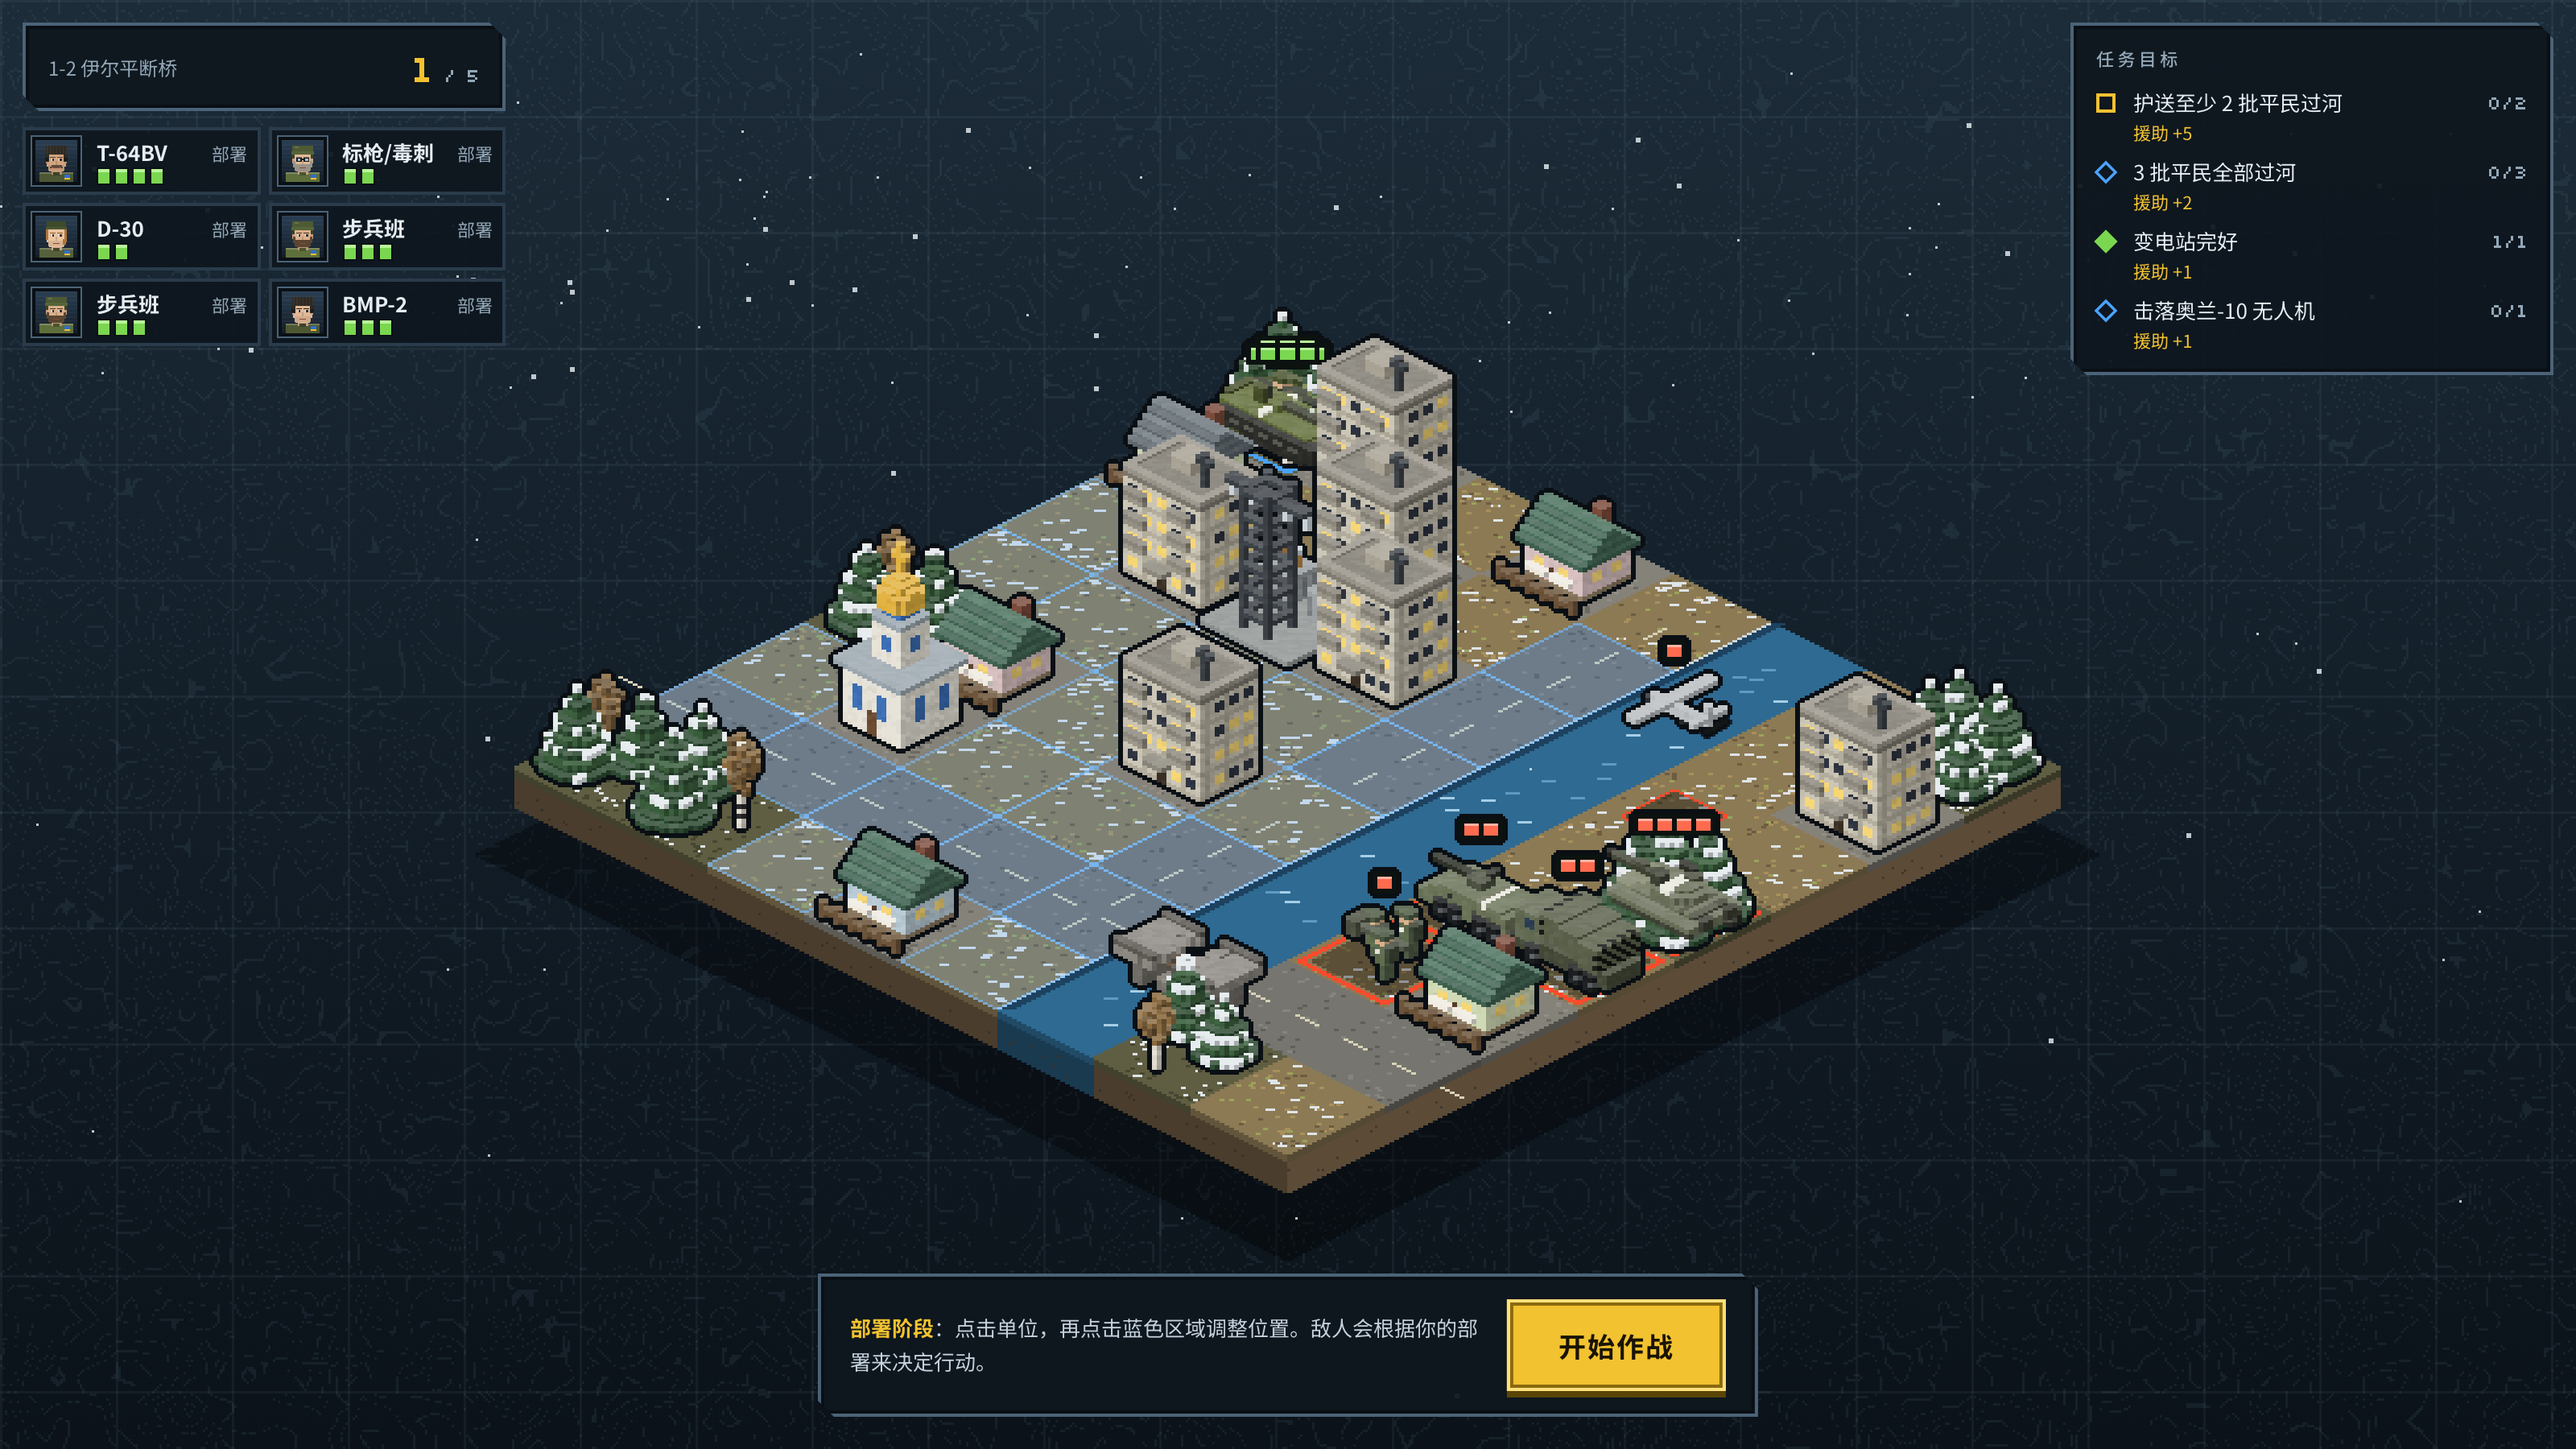
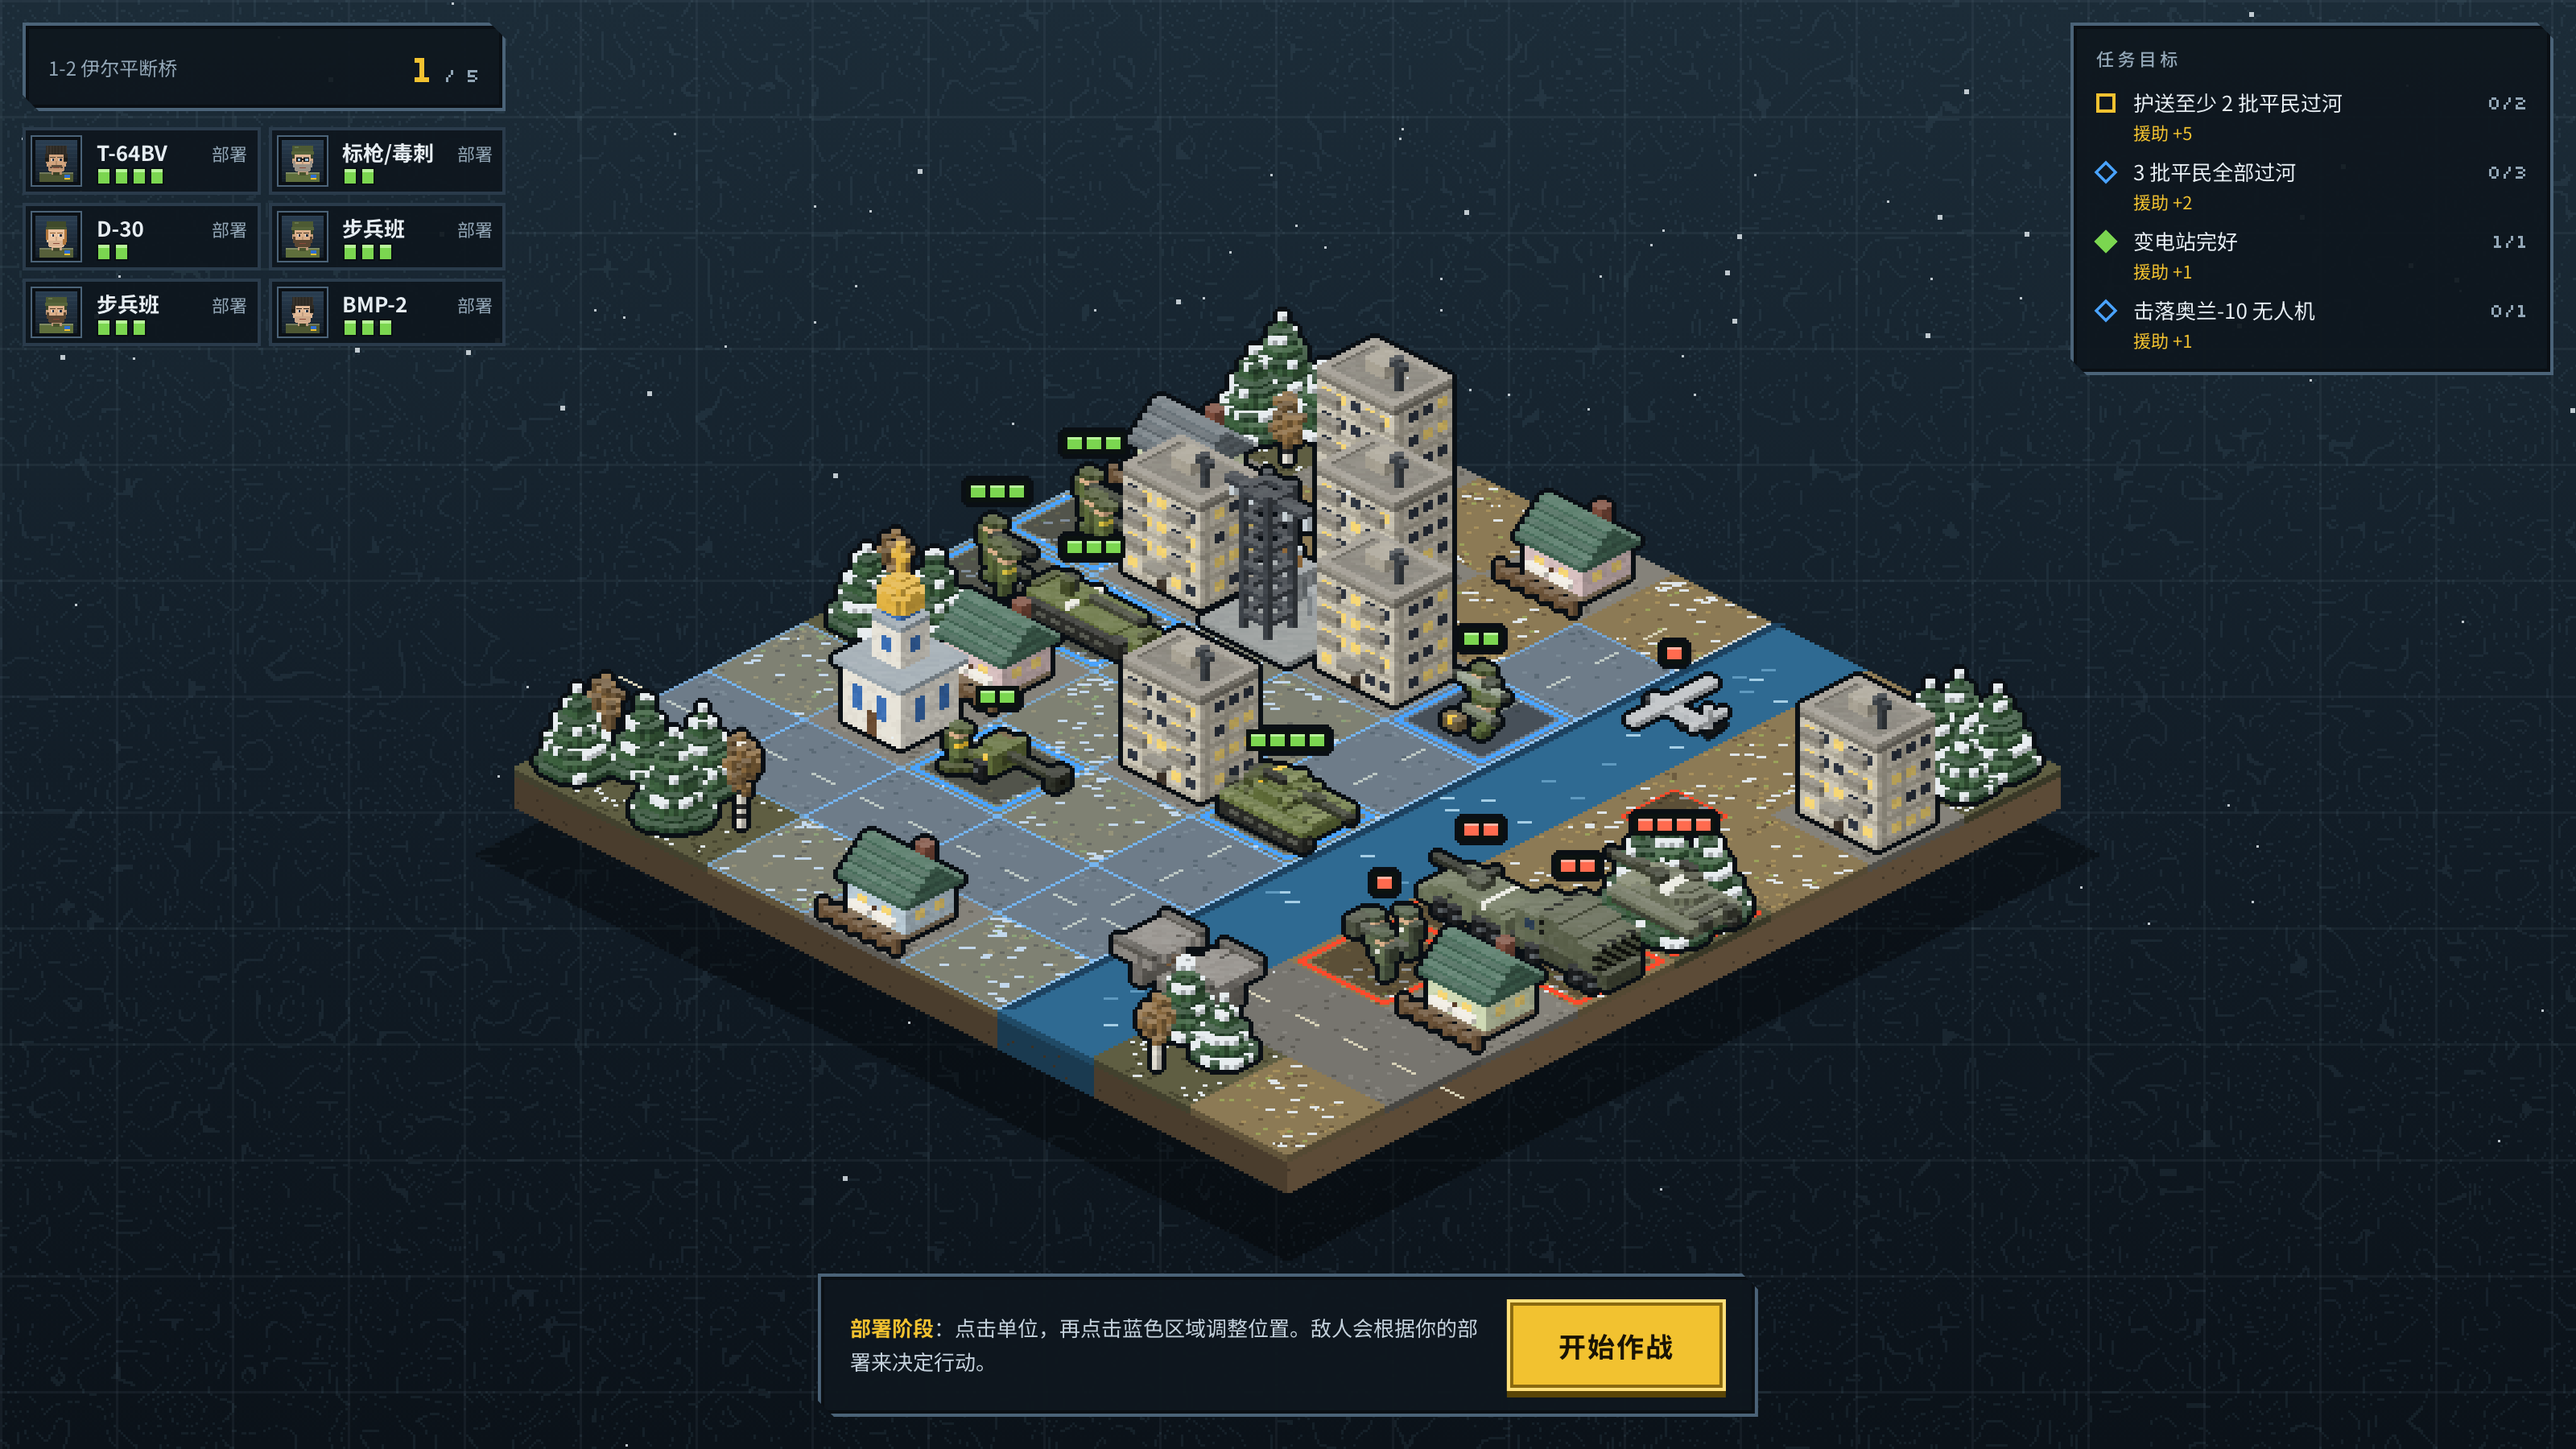
T-14: 第 3 轮修改（部署后同步渲染坐标 rx/ry，修复单位叠角）

diff --git a/game/js/battle.js b/game/js/battle.js
@@ -63,6 +63,7 @@ function newBattle(mi, picks) {
     if (M.squad[rec.type] && !seenTypes[rec.type]) pos = { x: M.squad[rec.type][0], y: M.squad[rec.type][1] };
     if (!pos || unitAt(pos.x, pos.y)) pos = deploySpot(u, M);
     u.x = pos.x; u.y = pos.y;
+    u.rx = u.x; u.ry = u.y;
     seenTypes[rec.type] = true;
     u.rid = rec.rid;
     B.units.push(u);

diff --git a/docs/tasks/T-14-部队与出动费.md b/docs/tasks/T-14-部队与出动费.md
@@ -140,6 +140,24 @@
 
 需审查方决定的问题：无。
 
+**第 3 轮（执行方：ZCode）**
+
+按第 2 轮审查意见修改：`newBattle` 的部署循环在 `u.x = pos.x; u.y = pos.y;` 后补上 `u.rx = u.x; u.ry = u.y;`，修复 6 个单位全部叠在 (0,0) 渲染的 bug。截图提交前已逐张目检，画面与描述一致。
+
+审查方要求的坐标输出（`B.units.filter(u => u.team === 'ua').map(u => [u.x, u.y, u.rx, u.ry])`）：
+
+```
+[[4,4,4,4],[4,2,4,2],[2,5,2,5],[0,2,0,2],[0,3,0,3],[1,3,1,3]]
+```
+
+与审查方实测的六个位置（t64@4,4、atgm@4,2、d30@2,5、tdf@0,2、tdf@0,3、bmp2@1,3）一致。
+
+自测：`node tools/playtest.js /tmp/pt-T-14r3` → `ERRORS none`、退出码 0；`hud6.png` 重拍并目检——6 个单位分别出现在各自的部署格上，两列名册无溢出。
+
+需审查方决定的问题：无。
+
+## 审查意见（审查方写）
+
 ## 审查意见（审查方写）
 
 ## 审查意见（审查方写）
